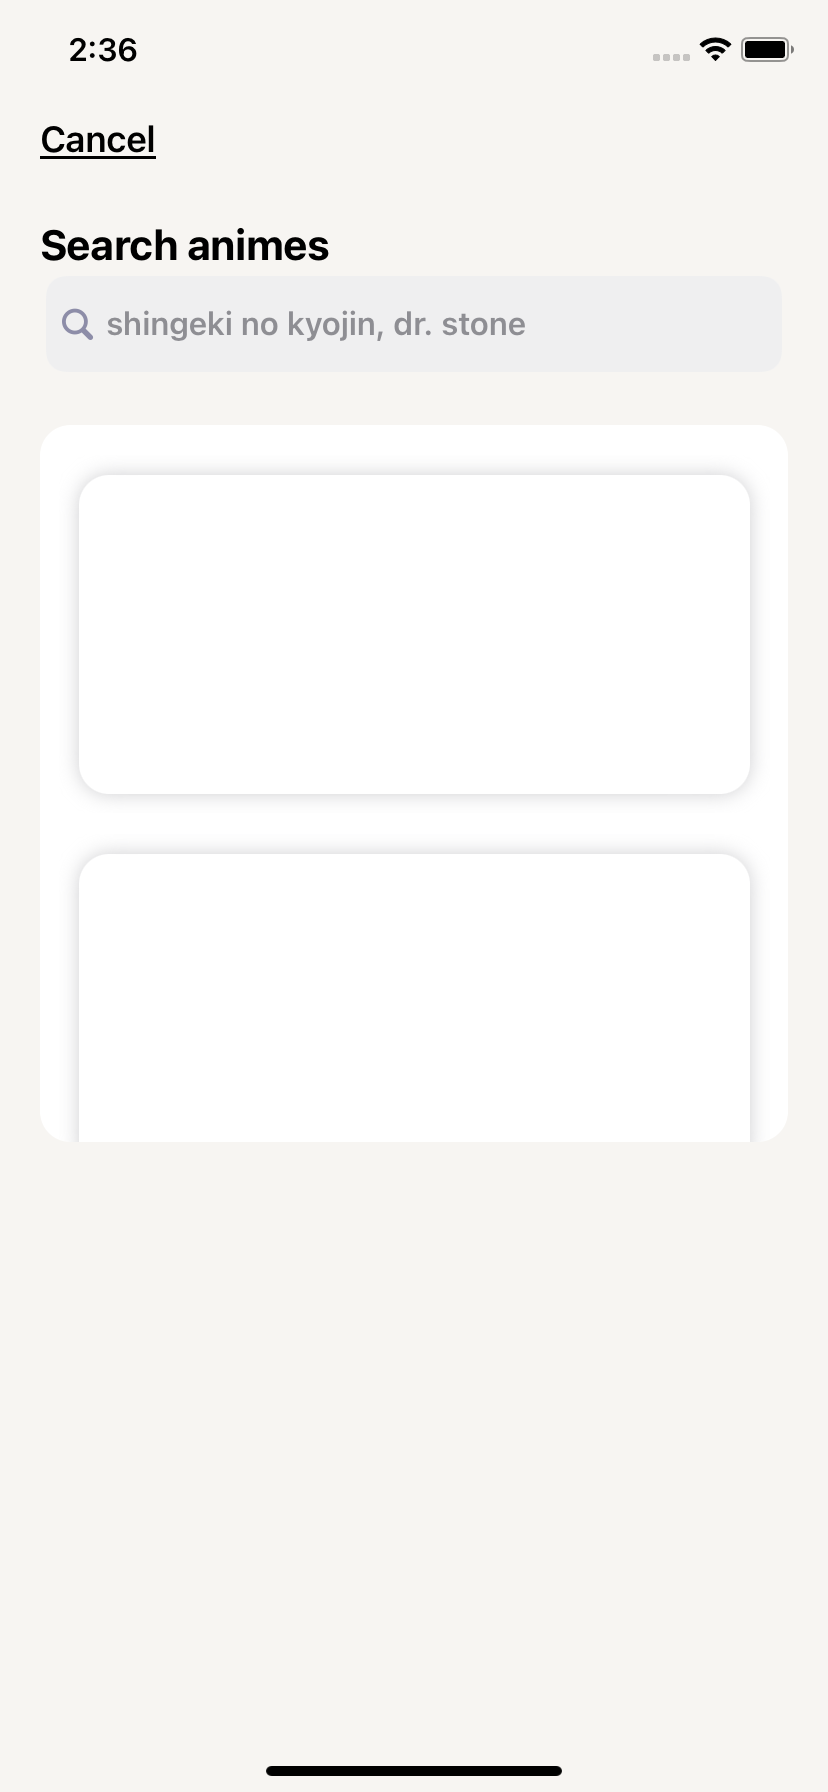
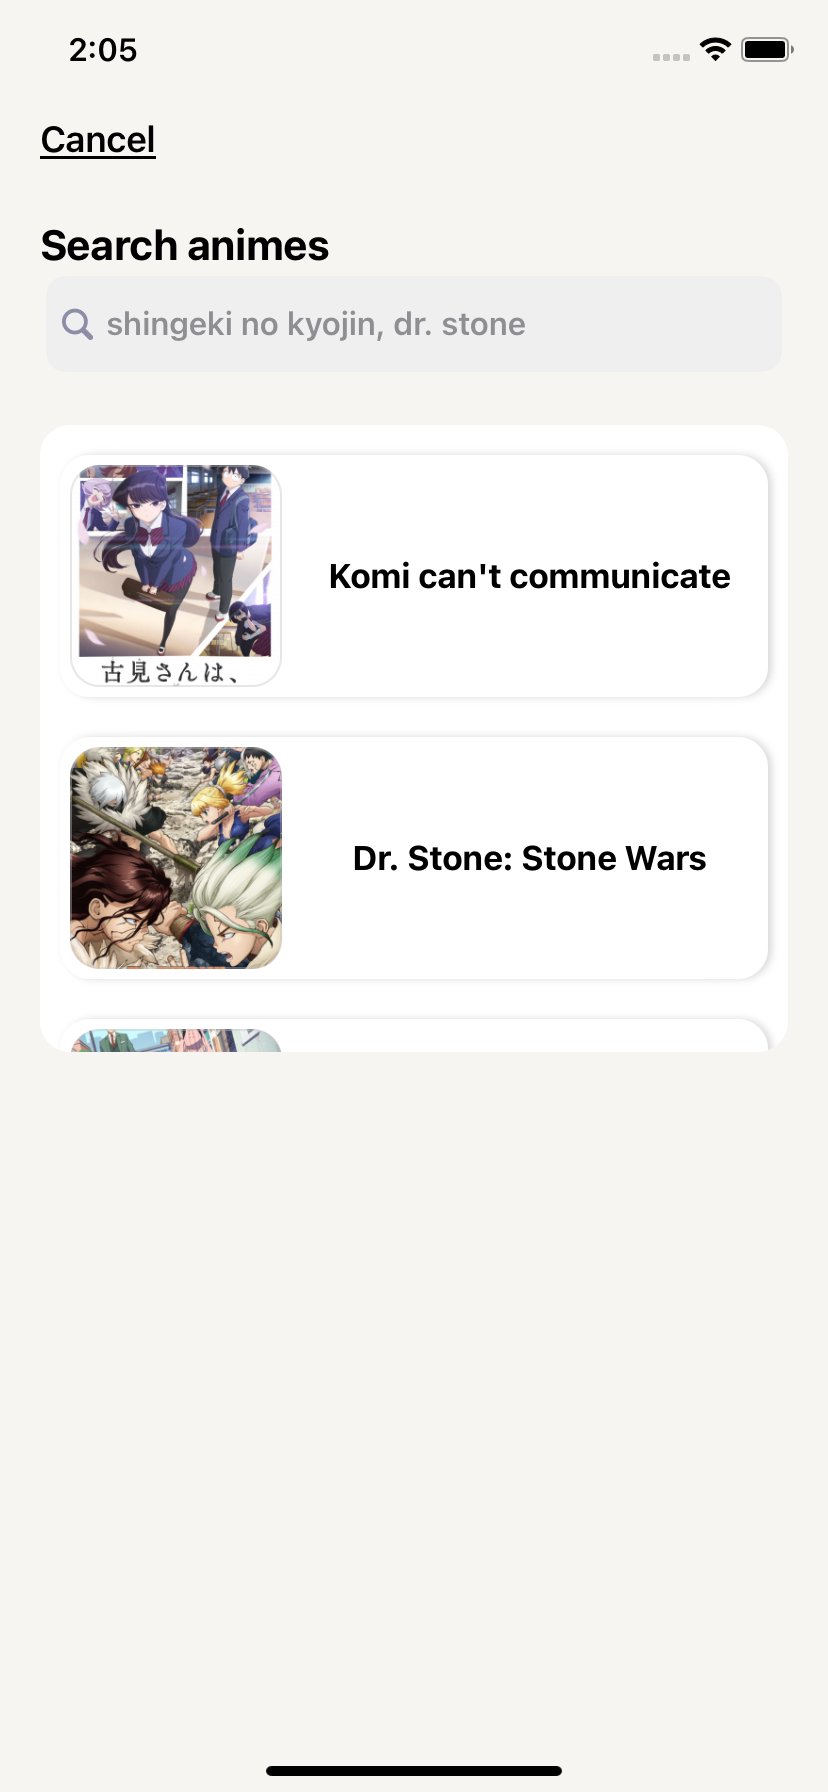
new-anime collection with items, anime title and image from Bundle (for now)

diff --git a/AnimeCalendar/AnimeCalendar/Scenes/Screens/NewAnime/Components/NewAnimeSearchResults/NewAnimeItem/NewAnimeSearchResultItem.swift b/AnimeCalendar/AnimeCalendar/Scenes/Screens/NewAnime/Components/NewAnimeSearchResults/NewAnimeItem/NewAnimeSearchResultItem.swift
@@ -5,15 +5,24 @@
 //  Created by Leonardo  on 27/05/22.
 //
 
+import RxCocoa
+import RxSwift
 import UIKit
 
 final class NewAnimeSearchResultItem: UICollectionViewCell {
   /// # Outlets
   @IBOutlet private weak var animeContainerView: UIView!
+  @IBOutlet private weak var animeTitleLabel: UILabel!
+  @IBOutlet private weak var animeCoverImage: UIImageView!
+  /// # Observables
+  var searchResultAnime: BehaviorSubject<HomeAnime>?
+  private var disposeBag = DisposeBag()
   /// # Properties
   var anime: HomeAnime? {
     didSet {
-      print("SET NewAnimeSearchResultItem")
+      guard let anime = self.anime else { return }
+      searchResultAnime = BehaviorSubject(value: anime)
+      configureCollectionItemBindings()
     }
   }
 }
@@ -21,16 +30,68 @@ final class NewAnimeSearchResultItem: UICollectionViewCell {
 extension NewAnimeSearchResultItem {
   override func awakeFromNib() {
     super.awakeFromNib()
+    configureCollectionItem()
+  }
+}
+
+extension NewAnimeSearchResultItem: ComponentCollectionItem {
+  /// # Collection item
+  func configureCollectionItem() {
     configureView()
+  }
+
+  /// # Configure bindings (Rx)
+  func configureCollectionItemBindings() {
+    searchResultAnime?
+      .map { $0.name }
+      .bind(to: animeTitleLabel.rx.text)
+      .disposed(by: disposeBag)
+
+    // TODO: SHOULD CALL VIEWMODEL METHOD
+    searchResultAnime?
+      .subscribe(onNext: { [weak self] anime in
+        self?.animeCoverImage.imageFromBundle(imageName: anime.cover)
+        print("Cover url: \(anime.cover)")
+      })
+      .disposed(by: disposeBag)
+  }
+
+  /// # Configure View
+  func configureView() {
+    configureInitialValues()
+    configureSubViews()
+  }
+
+  /// # Configure Subviews
+  func configureSubViews() {
+    configureShadows()
+    configureImages()
+  }
+
+  /// # Initial values
+  func configureInitialValues() {
+    // Container and contentView background colors
+    contentView.backgroundColor = Color.white
+    animeContainerView.backgroundColor = Color.white
+
+    // Values
+    animeTitleLabel.text = nil
   }
 }
 
 private extension NewAnimeSearchResultItem {
-  func configureView() {
-    contentView.backgroundColor = Color.white
-    animeContainerView.backgroundColor = Color.white
+  func configureShadows() {
+    // Container shadow
     var shadow = Shadow(.bottom)
-    shadow.color = Color.gray
+    shadow.color = Color.lightGray
+    shadow.offset = CGSize(width: 2, height: 0)
+    shadow.radius = 2
     animeContainerView.addShadowLayer(shadow: shadow, layerRadius: 15)
+  }
+
+  func configureImages() {
+    animeCoverImage.addCornerRadius(radius: 15)
+    animeCoverImage.layer.borderColor = Color.lightGray.withAlphaComponent(0.4).cgColor
+    animeCoverImage.layer.borderWidth = 1
   }
 }

diff --git a/AnimeCalendar/AnimeCalendar/Scenes/Screens/NewAnime/Components/NewAnimeSearchResults/NewAnimeSearchResultsComponent.swift b/AnimeCalendar/AnimeCalendar/Scenes/Screens/NewAnime/Components/NewAnimeSearchResults/NewAnimeSearchResultsComponent.swift
@@ -16,8 +16,9 @@ final class NewAnimeSearchResultsComponent: UIViewController {
   /// # Observables
   private let animesDummy: [HomeAnime] =
     [
-      HomeAnime(name: "Spy x Family", cover: "www"),
-      HomeAnime(name: "Dr. Stone", cover: "www"),
+      HomeAnime(name: "Komi can't communicate", cover: "new-anime-item-komicantcommunicate"),
+      HomeAnime(name: "Dr. Stone: Stone Wars", cover: "new-anime-item-drstone"),
+      HomeAnime(name: "Spy x Family", cover: "new-anime-item-spyxfamily"),
     ]
   private lazy var animesObservable: Observable<[HomeAnime]> = Observable.create { [unowned self] observer in
     observer.onNext(self.animesDummy)
@@ -87,8 +88,8 @@ extension NewAnimeSearchResultsComponent: ComponentCollection {
 extension NewAnimeSearchResultsComponent: UICollectionViewDelegateFlowLayout {
   // Set CollectionViewItem (HomeAnimeItem) size
   func collectionView(_ collectionView: UICollectionView, layout collectionViewLayout: UICollectionViewLayout, sizeForItemAt indexPath: IndexPath) -> CGSize {
-    let width = newAnimeSearchResults.bounds.width * 0.95
-    let height = newAnimeSearchResults.bounds.height * 0.5
+    let width = newAnimeSearchResults.bounds.width * 1
+    let height = newAnimeSearchResults.bounds.height * 0.45
 
     print("Cell width \(width)")
     print("Cell height \(height)")
@@ -97,7 +98,7 @@ extension NewAnimeSearchResultsComponent: UICollectionViewDelegateFlowLayout {
 
   // Set CollectionViewItem "header" (left first item padding)
   func collectionView(_ collectionView: UICollectionView, layout collectionViewLayout: UICollectionViewLayout, referenceSizeForHeaderInSection section: Int) -> CGSize {
-    let height: Int = 15
+    let height: Int = 5
     let width: Int = 0
     return CGSize(width: width, height: height)
   }

diff --git a/AnimeCalendar/AnimeCalendar/SceneDelegate.swift b/AnimeCalendar/AnimeCalendar/SceneDelegate.swift
@@ -13,8 +13,8 @@ class SceneDelegate: UIResponder, UIWindowSceneDelegate {
   func scene(_ scene: UIScene, willConnectTo session: UISceneSession, options connectionOptions: UIScene.ConnectionOptions) {
     guard let windowScene = (scene as? UIWindowScene) else { return }
     let bootManager = BootManager()
-//    let rootController = bootManager.getRootController(.rootScreen(screen: .newAnimeScreen))
-    let rootController = bootManager.getRootController(.rootTabBar)
+    let rootController = bootManager.getRootController(.rootScreen(screen: .newAnimeScreen))
+//    let rootController = bootManager.getRootController(.rootTabBar)
     let rootViewController = rootController.getRootViewController()
 
     window = UIWindow(frame: windowScene.coordinateSpace.bounds)

diff --git a/AnimeCalendar/AnimeCalendar/Scenes/Screens/NewAnime/NewAnimeScreen.swift b/AnimeCalendar/AnimeCalendar/Scenes/Screens/NewAnime/NewAnimeScreen.swift
@@ -86,7 +86,7 @@ private extension NewAnimeScreen {
     /// Constraints
     NSLayoutConstraint.activate([
       newAnimeSearchResultsView.topAnchor.constraint(equalTo: newAnimeSearchBarView.bottomAnchor, constant: 20),
-      newAnimeSearchResultsView.heightAnchor.constraint(equalTo: newAnimeContainerView.heightAnchor, multiplier: 0.4),
+      newAnimeSearchResultsView.heightAnchor.constraint(equalTo: newAnimeContainerView.heightAnchor, multiplier: 0.35),
       newAnimeSearchResultsView.leadingAnchor.constraint(equalTo: newAnimeContainerView.leadingAnchor),
       newAnimeSearchResultsView.trailingAnchor.constraint(equalTo: newAnimeContainerView.trailingAnchor),
     ])

diff --git a/AnimeCalendar/AnimeCalendar/Extensions/UIImageViewExtension.swift b/AnimeCalendar/AnimeCalendar/Extensions/UIImageViewExtension.swift
@@ -1,0 +1,19 @@
+//
+//  UIImageViewExtension.swift
+//  AnimeCalendar
+//
+//  Created by Leonardo  on 28/05/22.
+//
+
+import Foundation
+import UIKit.UIImageView
+
+extension UIImageView {
+  func imageFromServerURL(urlString: String, placeholderImage: UIImage) {
+//    guard let url = URL(string: urlString) else { self.image = placeholderImage; return }
+  }
+
+  func imageFromBundle(imageName: String) {
+    self.image = UIImage(named: imageName)
+  }
+}

diff --git a/AnimeCalendar/AnimeCalendar/Scenes/Screens/NewAnime/Components/NewAnimeSearchBar/NewAnimeSearchBarComponent.swift b/AnimeCalendar/AnimeCalendar/Scenes/Screens/NewAnime/Components/NewAnimeSearchBar/NewAnimeSearchBarComponent.swift
@@ -38,7 +38,6 @@ extension NewAnimeSearchBarComponent: ScreenComponent {
 
   // TODO: Searchbar background color changes in DarkMode
   func configureView() {
-    newAnimeSearchBar.becomeFirstResponder()
     newAnimeSearchBar.searchBarStyle = .minimal
     newAnimeSearchBar.autocapitalizationType = .none
     newAnimeSearchBar.placeholder = "shingeki no kyojin, dr. stone"

diff --git a/AnimeCalendar/AnimeCalendar/Scenes/Screens/Contracts/ComponentCollectionItem.swift b/AnimeCalendar/AnimeCalendar/Scenes/Screens/Contracts/ComponentCollectionItem.swift
@@ -1,0 +1,16 @@
+//
+//  ComponentCollectionItem.swift
+//  AnimeCalendar
+//
+//  Created by Leonardo  on 27/05/22.
+//
+
+import Foundation
+
+protocol ComponentCollectionItem {
+  func configureCollectionItem()
+  func configureCollectionItemBindings()
+  func configureView()
+  func configureInitialValues()
+  func configureSubViews()
+}

diff --git a/AnimeCalendar/AnimeCalendar/Scenes/Screens/Home/Components/HomeAnimes/HomeAnimeItem/HomeAnimeItem.swift b/AnimeCalendar/AnimeCalendar/Scenes/Screens/Home/Components/HomeAnimes/HomeAnimeItem/HomeAnimeItem.swift
@@ -33,6 +33,7 @@ final class HomeAnimeItem: UICollectionViewCell {
   private let cornerRadius: CGFloat = 15
 }
 
+// TODO: Configure ComponentCollectionItem
 extension HomeAnimeItem {
   override func awakeFromNib() {
     super.awakeFromNib()
